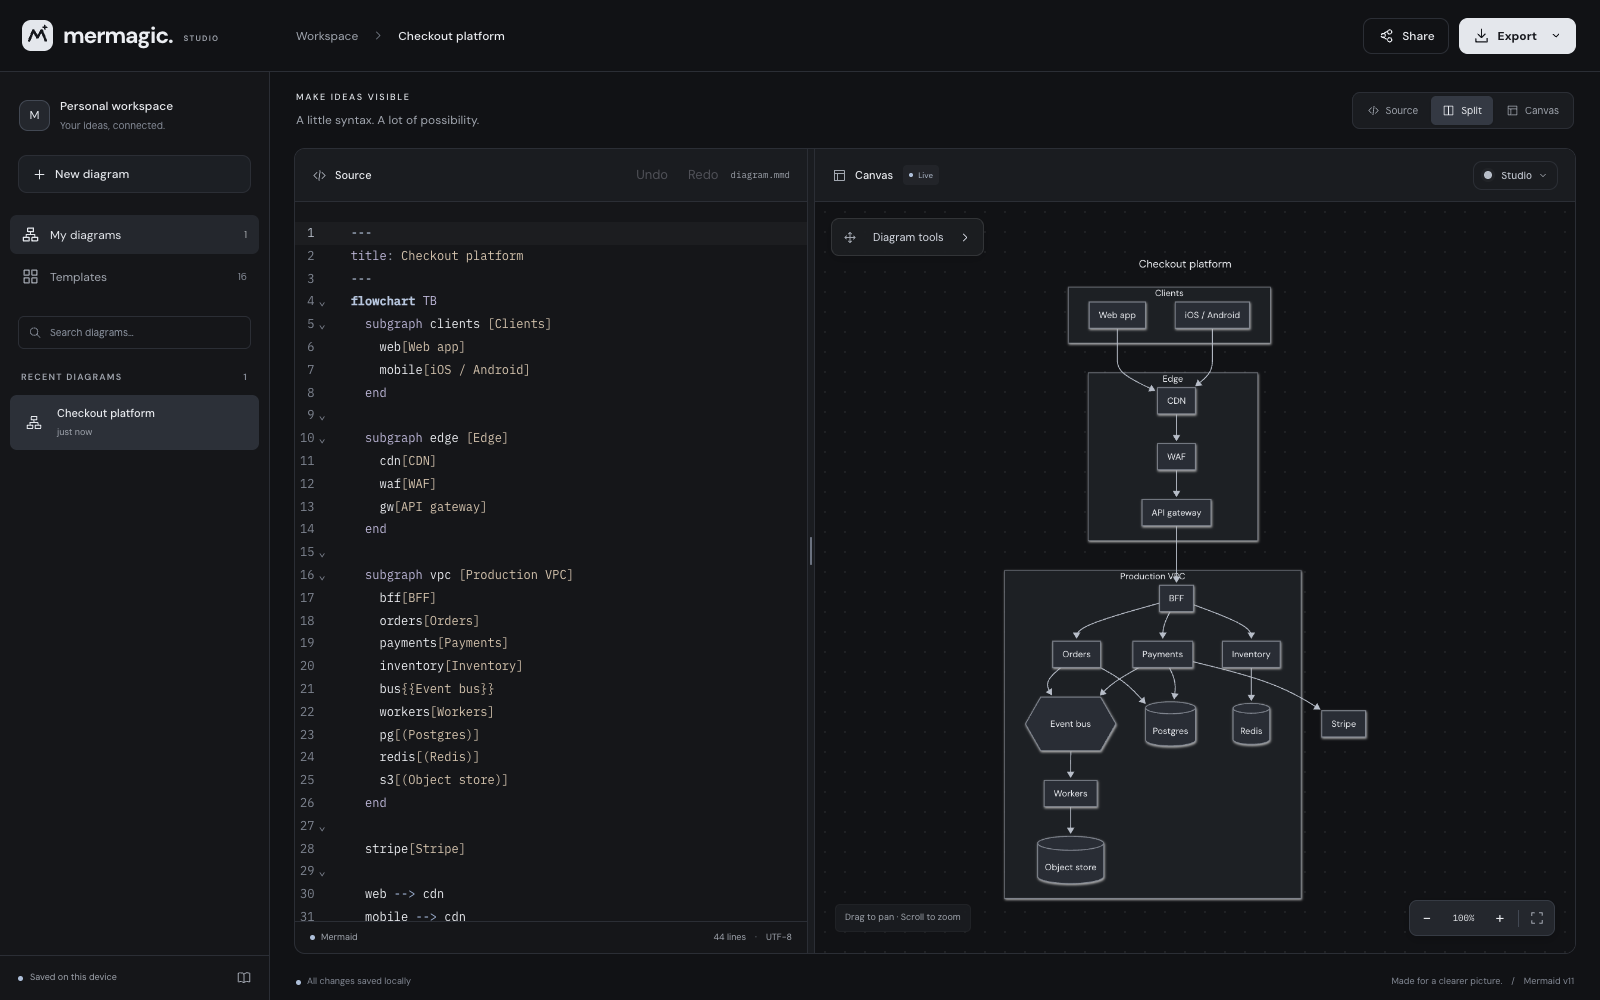
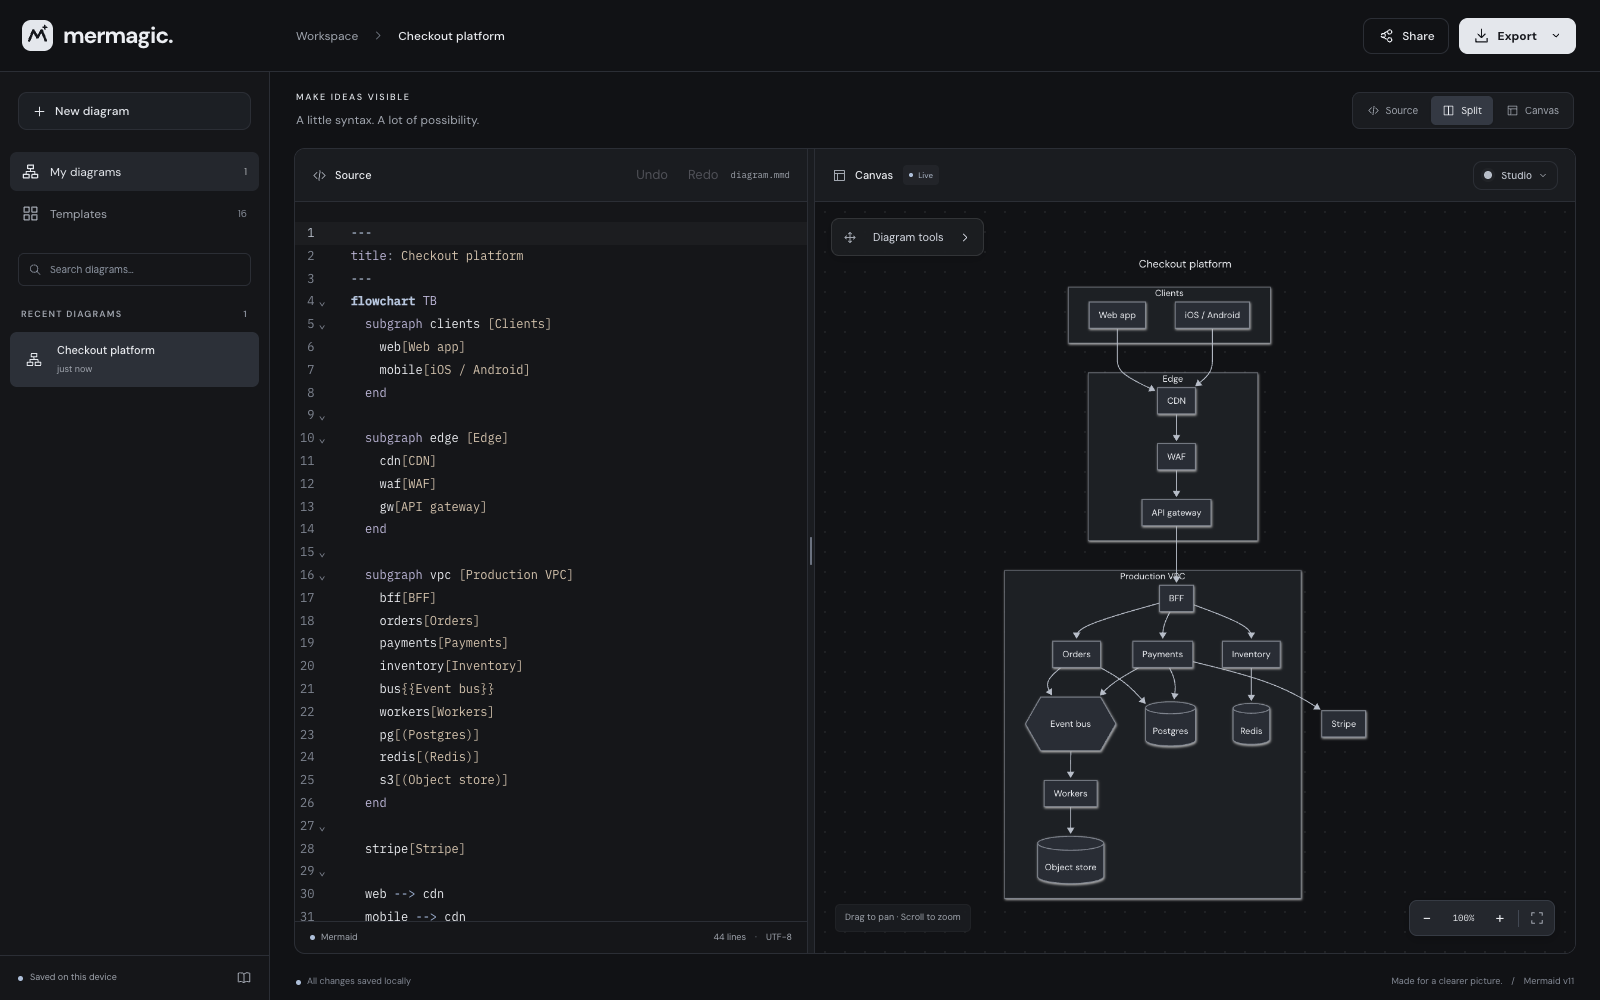
Remove studio badge and personal workspace block

Changed region(s): [[0.0, 0.31, 0.1875, 0.465], [0.0, 0.093, 0.0938, 0.279]]

diff --git a/src/index.css b/src/index.css
@@ -121,15 +121,6 @@ input {
   width: 25px;
   height: 25px;
 }
-.studio-badge {
-  align-self: center;
-  color: var(--muted);
-  font-size: 8px;
-  letter-spacing: 1.2px;
-  font-weight: 600;
-  margin-left: 1px;
-  padding-top: 4px;
-}
 .document-heading {
   display: flex;
   min-width: 0;
@@ -221,36 +212,14 @@ input {
   border-right: 1px solid var(--border);
   background: #151619;
 }
-.workspace-label {
+.sidebar-actions {
   display: flex;
-  gap: 10px;
+  gap: 8px;
   align-items: center;
-  padding: 25px 19px 22px;
-}
-.workspace-avatar {
-  width: 31px;
-  height: 31px;
-  display: grid;
-  place-items: center;
-  border: 1px solid #424853;
-  background: #24272d;
-  color: var(--accent);
-  border-radius: 9px;
-  font-size: 12px;
-}
-.workspace-label strong {
-  display: block;
-  font-size: 12px;
-  font-weight: 500;
-}
-.workspace-label :where(div) > span {
-  display: block;
-  margin-top: 3px;
-  color: var(--faint);
-  font-size: 10px;
+  margin: 20px 18px 22px;
 }
 .new-diagram {
-  margin: 0 18px 22px;
+  flex: 1;
   background: #1c1f24;
   border-color: #2b2e35;
   justify-content: flex-start;
@@ -286,7 +255,7 @@ input {
   background: #24272d;
   color: var(--accent);
 }
-.library-tabs button > span {
+.library-tabs :where(button) > span {
   margin-left: auto;
   font-size: 10px;
   color: var(--faint);
@@ -1238,9 +1207,6 @@ input {
     font-size: 21px;
     gap: 8px;
   }
-  .studio-badge {
-    display: none;
-  }
   .document-heading {
     gap: 9px;
     padding: 0 20px;
@@ -1265,13 +1231,6 @@ input {
   }
   .file-badge {
     font-size: 8px;
-  }
-  .workspace-label {
-    padding-right: 10px;
-    padding-left: 14px;
-  }
-  .workspace-label strong {
-    font-size: 11px;
   }
   .app-statusbar > span:last-child {
     font-size: 8px;
@@ -1304,6 +1263,7 @@ input {
   }
   .sidebar-close {
     margin-left: auto;
+    flex-shrink: 0;
   }
   .sidebar {
     display: none;

diff --git a/src/components/Toolbar.tsx b/src/components/Toolbar.tsx
@@ -62,7 +62,6 @@ export function Toolbar(props: ToolbarProps) {
           <span>
             mermagic<span className="brand-dot">.</span>
           </span>
-          <span className="studio-badge">STUDIO</span>
         </div>
         <div className="document-heading">
           <button
@@ -157,12 +156,15 @@ export function Toolbar(props: ToolbarProps) {
         </div>
       </header>
       <aside className="sidebar" aria-label="Diagram library">
-        <div className="workspace-label">
-          <span className="workspace-avatar">M</span>
-          <div>
-            <strong>Personal workspace</strong>
-            <span>Your ideas, connected.</span>
-          </div>
+        <div className="sidebar-actions">
+          <button
+            type="button"
+            className="button new-diagram"
+            onClick={props.onHistoryNew}
+          >
+            <Icon name="plus" />
+            <span>New diagram</span>
+          </button>
           <button
             type="button"
             className="icon-button sidebar-close"
@@ -172,14 +174,6 @@ export function Toolbar(props: ToolbarProps) {
             <Icon name="close" />
           </button>
         </div>
-        <button
-          type="button"
-          className="button new-diagram"
-          onClick={props.onHistoryNew}
-        >
-          <Icon name="plus" />
-          <span>New diagram</span>
-        </button>
         <nav className="library-tabs" aria-label="Library sections">
           {(
             [
